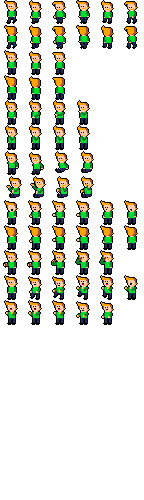
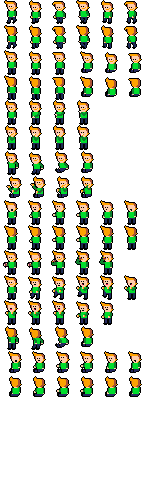
Sit animation!

diff --git a/src/game/human_stuff/HumanAnimationManager.ts b/src/game/human_stuff/HumanAnimationManager.ts
@@ -12,6 +12,7 @@ export enum ANIMATION {
     DRINK,
     RAGE,
     FREEZE_SIT,
+    SIT_TALK,
 }
 
 export class HumanAnimationManager {
@@ -63,6 +64,7 @@ export class HumanAnimationManager {
             case ANIMATION.STAND_UP: return topOriented ? [81, 80, 79, 78, 18] : [39, 38, 37, 36, 12];
             case ANIMATION.TYPE: return [42, 43, 44, 45];
             case ANIMATION.TALK: return topOriented ? [54, 55, 56, 57, 58, 59] : [48, 49, 50, 51, 52, 53];
+            case ANIMATION.SIT_TALK: return topOriented ? [90, 91, 92, 93, 94, 95] : [84, 85, 86, 87, 88, 89];
             case ANIMATION.RAGE:
                 let rage_frames = [66, 67, 68, 69];
                 for (let i = 0; i < 4; i++) {
@@ -100,6 +102,7 @@ export class HumanAnimationManager {
             ANIMATION.TALK,
             ANIMATION.DRINK,
             ANIMATION.RAGE,
+            ANIMATION.SIT_TALK,
         ];
     }
 
@@ -111,6 +114,7 @@ export class HumanAnimationManager {
             ANIMATION.SIT_DOWN,
             ANIMATION.STAND_UP,
             ANIMATION.FREEZE_SIT,
+            ANIMATION.SIT_TALK,
         ].indexOf(animation) > -1;
     }
 
@@ -124,6 +128,7 @@ export class HumanAnimationManager {
             ANIMATION.TYPE,
             ANIMATION.DRINK,
             ANIMATION.FREEZE_SIT,
+            ANIMATION.SIT_TALK,
         ].indexOf(animation) > -1;
     }
 
@@ -139,6 +144,7 @@ export class HumanAnimationManager {
             case ANIMATION.RAGE: return 'RG';
             case ANIMATION.DRINK: return 'DK';
             case ANIMATION.SMOKE: return 'SK';
+            case ANIMATION.SIT_TALK: return 'ST';
             default:
                 throw 'UNKNOWN ANIMATION ' + animation;
         }

diff --git a/src/game/human_states/SitTalkState.ts b/src/game/human_states/SitTalkState.ts
@@ -70,7 +70,7 @@ export class SitTalkState extends AbstractState {
                 this.game.time.events.add(this.meeting.getTime() + Math.random() * Phaser.Timer.SECOND, this.endMeeting, this); // TODO this will fail
                 this.human.updateMoodFromState();
 
-                let animation = ANIMATION.TALK;
+                let animation = ANIMATION.SIT_TALK;
                 if (Math.random() > 0.5) {
                     animation = SitTalkState.otherAnimation(animation);
                 }
@@ -82,14 +82,14 @@ export class SitTalkState extends AbstractState {
     }
 
     private switchAnimation(animation: ANIMATION) {
-        if (animation === ANIMATION.TALK) {
+        if (animation === ANIMATION.SIT_TALK) {
             this.human.showTalkBubble();
         } else {
             this.human.hideTalkBubble();
         }
         this.human.loadAnimation(animation);
         this.events.push(this.game.time.events.add(
-            Phaser.Math.random(3, 6) * ((animation !== ANIMATION.TALK) ? 3 : 1) * HumanAnimationManager.getAnimationTime(animation),
+            Phaser.Math.random(3, 6) * ((animation !== ANIMATION.SIT_TALK) ? 3 : 1) * HumanAnimationManager.getAnimationTime(animation),
             this.switchAnimation,
             this,
             SitTalkState.otherAnimation(animation)
@@ -150,6 +150,6 @@ export class SitTalkState extends AbstractState {
     }
 
     private static otherAnimation(animation: ANIMATION) {
-        return animation === ANIMATION.TALK ? ANIMATION.FREEZE_SIT : ANIMATION.TALK;
+        return animation === ANIMATION.SIT_TALK ? ANIMATION.FREEZE_SIT : ANIMATION.SIT_TALK;
     }
 }
